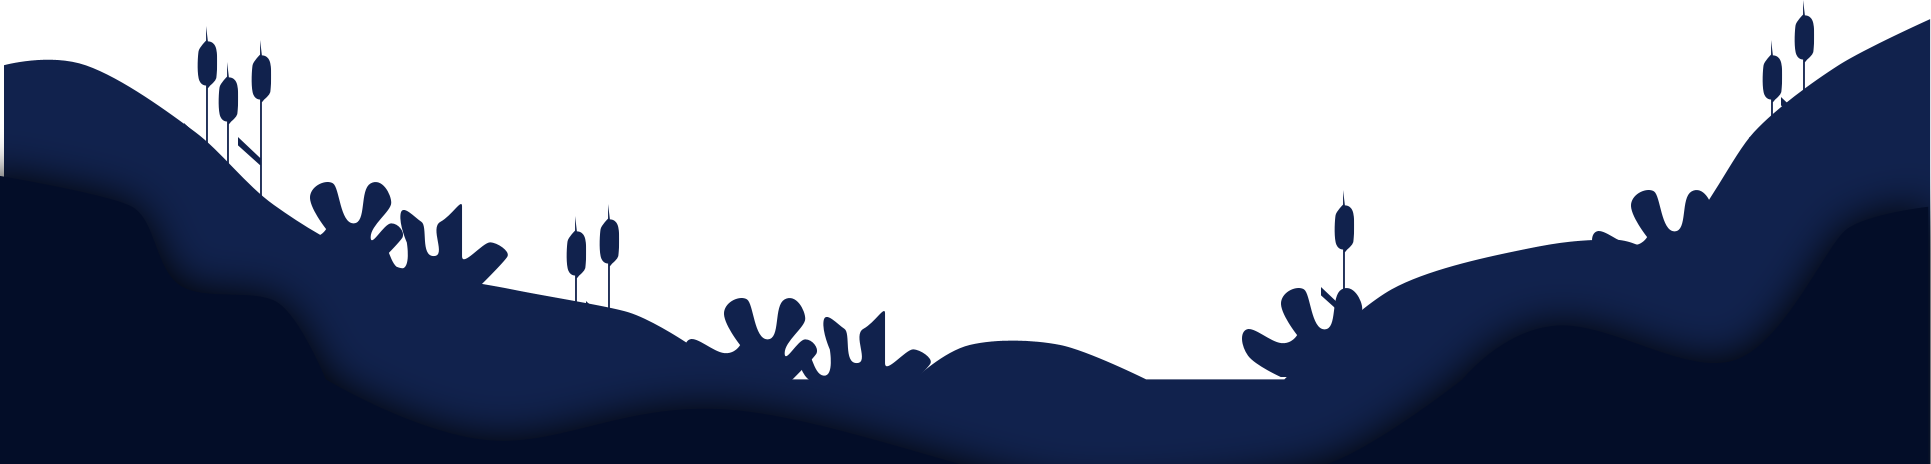
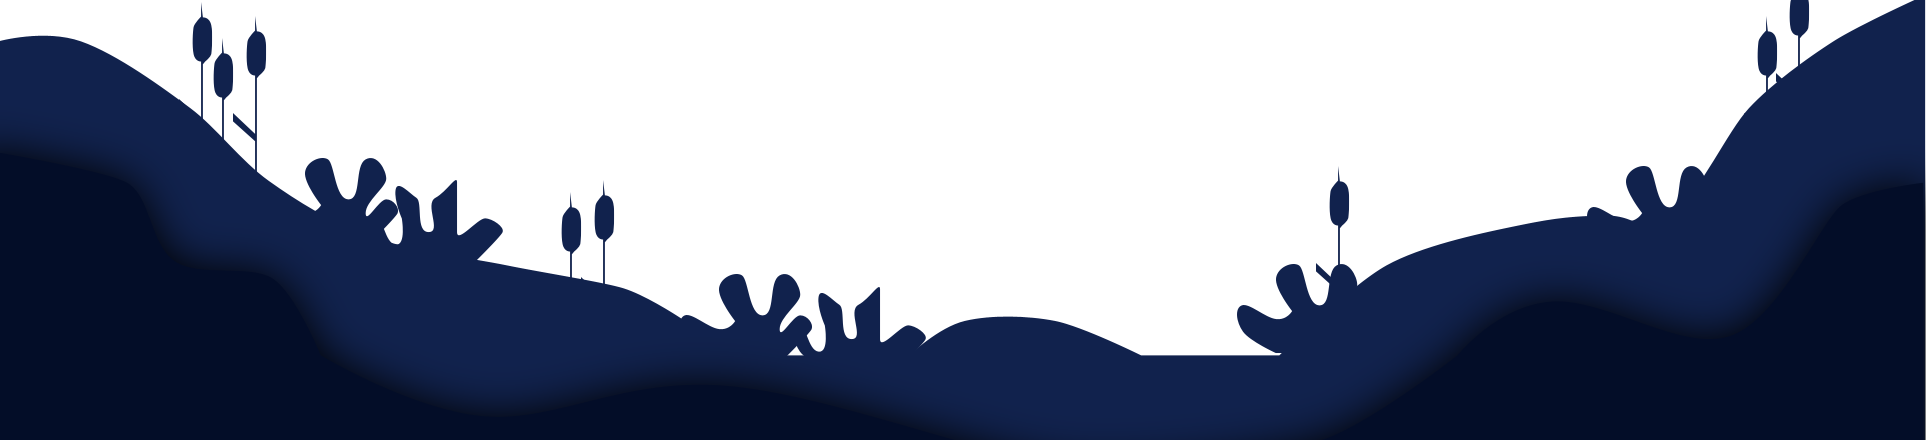
updates

diff --git a/styles/illustration-style.css b/styles/illustration-style.css
@@ -3,12 +3,11 @@
 
 .main-illustration {
     height: 100vh;
-    max-width: 100vw;
+    width: 100vw;
 }
 
 #bg {
-    height: 110vh;
-    width: 1920px;
+    height: 100vh;
     width: 100%;
     z-index: 0;
 }
@@ -52,10 +51,9 @@
 #foreground {
     position: absolute;
     z-index: 7;
-    width: 1920px;
+    width: 100%;
     bottom: 0%;
-    left: 50%;
-    margin-left: -960px;
+    left: 0%;
 }
 
 #name {
